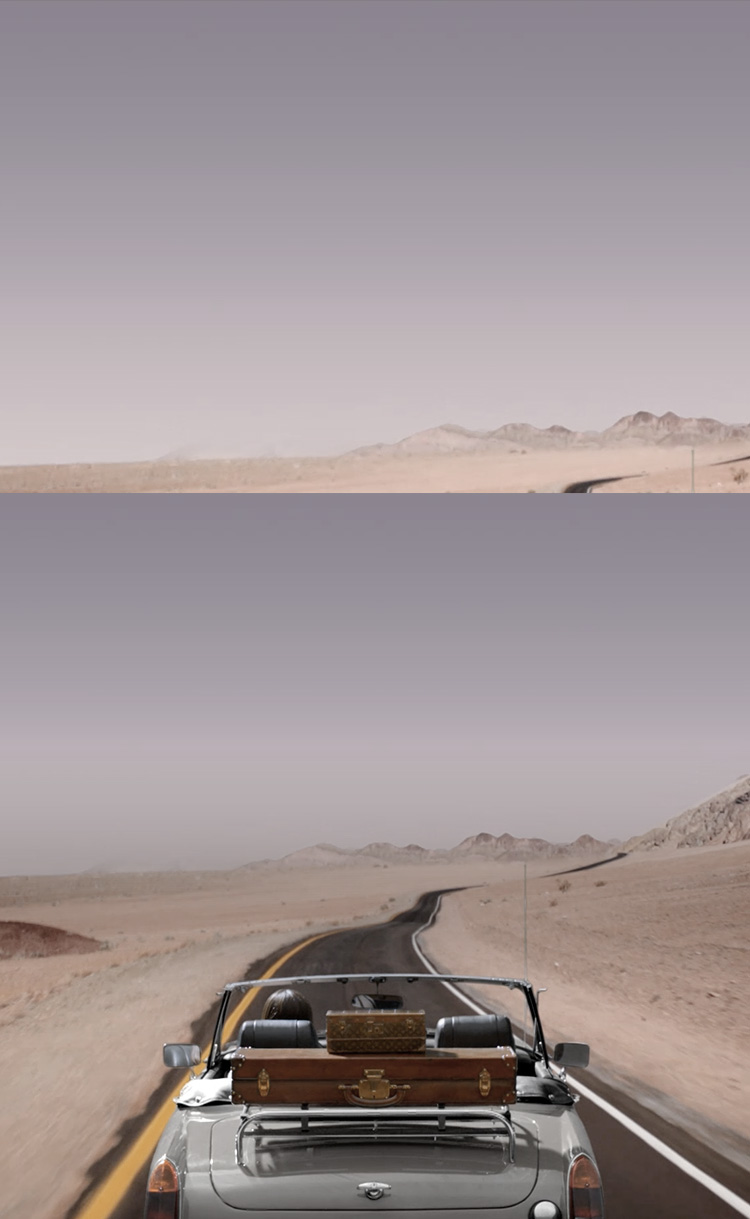
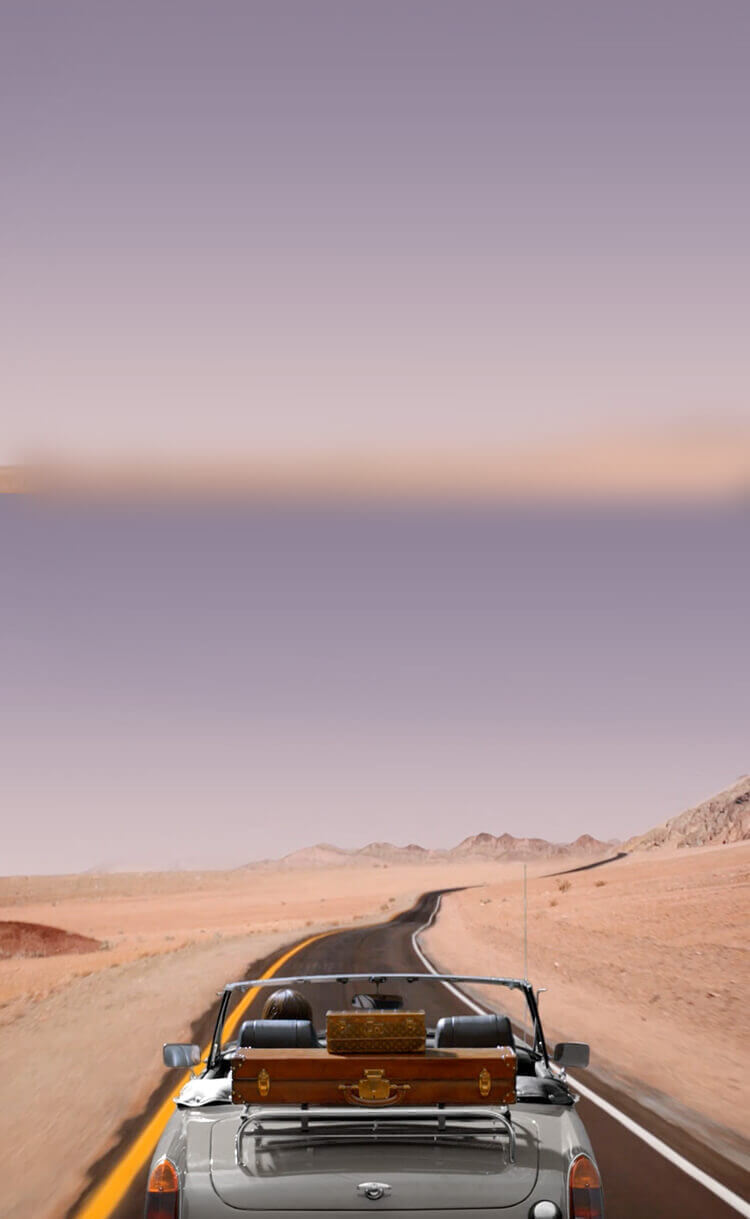
no message

diff --git a/web/neverendingstory/css/style.css b/web/neverendingstory/css/style.css
@@ -20,7 +20,7 @@
   width: 62%;
   position: absolute;
   left: 50%;
-  top: 8%;
+  top: 10%;
   margin: 0 0 0 -31%; 
   z-index: 12;
   text-align: center;
@@ -96,7 +96,7 @@
 .video{
   width: 100%;
   display: inline-block;
-  margin: 40% 0 0 0;
+  margin: 43% 0 0 0;
   position: relative;
   z-index: 3;
 }
@@ -141,7 +141,7 @@
   width: 50%;
   position: absolute;
   left: 50%;
-  bottom: -36%;
+  bottom: -23%;
   margin: 0 0 0 -25%;
   z-index: 6;
 }
@@ -206,7 +206,7 @@
 
 /* qrcode */
 #qrcode{
-  background: url("../imgs/qrcode_bg.jpg") center top no-repeat;
+  background: url("../imgs/qrcode_bg.jpg") center bottom no-repeat;
   background-size: 100% auto;
 }
 
@@ -247,7 +247,7 @@
   }
 
   .video{
-    margin: 32% 0 0 0;
+    margin: 30% 0 0 0;
   }
 
   .slogan{
@@ -263,7 +263,7 @@
       width: 50%;
       position: absolute;
       left: 50%;
-      bottom: -30%;
+      bottom: -22%;
       margin: 0 0 0 -25%;
       z-index: 6;
     }
@@ -277,7 +277,7 @@
 
 
   .qrcode_con{
-    margin: 38% 0 0 0;
+    margin: 50% 0 0 0;
   }
 
 
@@ -297,7 +297,7 @@
 .fpage{
   width: 76%;
   display: none;
-  margin: 16% 0 0 0;
+  margin: 33% 0 0 0;
 }
 
 .fpage#form{
@@ -308,7 +308,7 @@
   font-size: 24px;
   width: 100%;
   text-align: center;
-  padding: 0 0 15% 0;
+  /*padding: 0 0 15% 0;*/
 }
 
 #form h1 span{
@@ -326,16 +326,16 @@
 #form ul{
   width: 100%;
   display: inline-block;
-  margin: 15% 0;
+  margin: 9% 0 9% 0;
 }
 
 #form li{
   width: 100%;
-  padding: 6px 0;
+  padding: 4px 0;
   background: #e5e0da;
   font-size: 14px;
   color: #a5a5a5;
-  margin: 9px 0;
+  margin: 4px 0;
   display: inline-block;
 }
 
@@ -393,17 +393,17 @@
   top: 50%;
   width: 100%;
   text-align: center;
-  margin: -10% 0 0 0;
-  font-size: 16px;
+  margin: -9% 0 0 0;
+  font-size: 14px;
   color: #fff;
 }
 
 .rule_link{
-  font-size: 18px;
+  font-size: 16px;
   color: #533f35;
   width: 100%;
   display: inline-block;
-  margin: 6% 0 20% 0;
+  margin: 6% 0 9% 0;
 }
 
 .rule_link i{
@@ -441,13 +441,13 @@
   top: 50%;
   width: 100%;
   text-align: center;
-  margin: -10% 0 0 0;
-  font-size: 16px;
+  margin: -9% 0 0 0;
+  font-size: 14px;
   color: #fff;
 }
 
 #rule .pf_footer{
-  margin: 20% 0 22% 0;
+  margin: 23.5% 0 10% 0;
 }
 
 
@@ -457,13 +457,13 @@
   position: fixed;
   left: 0;
   top: 0;
-  z-index: 9;
-  background: rgba(0,0,0,0.95);
+  z-index: 16;
+  background: rgba(235,235,235,1);
   display: none;
 }
 
 
-.successPup_con{
+/*.successPup_con{
   width:60%;
   height: 100px;
   line-height: 100px;
@@ -482,6 +482,28 @@
   margin: 0 0 0 42%;
   float: left;
 }
+*/
+
+.successPup_con{
+  width:60%;
+  height: 100px;
+  line-height: 100px;
+  position: absolute;
+  left: 50%;
+  top: 50%;
+  margin: -50px 0 0 -30%;
+  /*background: #e5e0da url("../imgs/r_icon.png") no-repeat 27% center;*/
+  background: #533f35;
+  color: #fff;
+  background-size: 10% auto;
+  font-size: 18px;
+  text-align: center;
+}
+
+.successPup_con span{
+  display: inline-block;
+  /*margin: 0 0 0 14%;*/
+}
 
 
 
@@ -490,6 +512,46 @@
 
 
 
+
+
+/* 6plus */
+
+@media only screen and (min-device-width: 414px) and (max-device-width: 736px) and (orientation: portrait) {
+  #form ul{
+    width: 100%;
+    display: inline-block;
+    margin: 9% 0 9% 0;
+  }
+
+  #form li{
+    width: 100%;
+    padding: 6px 0;
+    background: #e5e0da;
+    font-size: 14px;
+    color: #a5a5a5;
+    margin: 9px 0;
+    display: inline-block;
+  }
+}
+
+/* 6 */
+@media only screen and (min-device-width: 375px) and (max-device-width: 410px) and (orientation: portrait) {
+  #form ul{
+    width: 100%;
+    display: inline-block;
+    margin: 9% 0 9% 0;
+  }
+
+  #form li{
+    width: 100%;
+    padding: 6px 0;
+    background: #e5e0da;
+    font-size: 14px;
+    color: #a5a5a5;
+    margin: 9px 0;
+    display: inline-block;
+  }
+}
 
 
 

diff --git a/web/neverendingstory/form.html b/web/neverendingstory/form.html
@@ -28,14 +28,19 @@
 
 <div class="wrapFrom">
 
+<a href="javascript:;" class="logo" >
+	<img src="imgs/logo_black.png" width="100%" />
+</a>
+
 <section class="fpage" id="form">
+	
+
 	<h1>
-		填写您的信息
-		<span>方便我们与您联系</span>
+		<img src="imgs/form_tips.png" width="49%" />
 	</h1>
-	<h2>
+	<!-- <h2>
 		跟随路易威登踏上永无止境的旅程
-	</h2>
+	</h2> -->
 
 	<ul>
 		<li>
@@ -108,16 +113,16 @@
 		var _city = $("input[name='city']").val();
 
 		if(_name == "" || !_name){
-			alert("姓名不能为空！");
+			alert("请填写姓名");
 			return false;
 		}else if(!isPhoneNum(_tel)){
-			alert("手机号码错误!");
+			alert("请填写正确的手机号码");
 			return false;
 		}else if(_sex == "请选择"){
-			alert("请选择您的性别!");
+			alert("请选择性别");
 			return false;
 		}else if(_city == ""){
-			alert("城市不能为空!");
+			alert("请填写城市");
 			return false;
 		}else{
 			$(".successPup").show();

diff --git a/web/neverendingstory/index.html b/web/neverendingstory/index.html
@@ -73,9 +73,9 @@
 					<img src="imgs/change_tips.png" width="100%" />
 				</div>
 
-				<div class="wifitips">
+				<!-- <div class="wifitips">
 					<img src="../imgs/wifi_tips.png" width="100%" />
-				</div>
+				</div> -->
 			</div>
 
 			<div class="swipeArea"></div>

diff --git a/web/neverendingstory/js/main.js b/web/neverendingstory/js/main.js
@@ -56,6 +56,9 @@ document.addEventListener('touchmove' , function (ev){
 				onallended: function(){
 					$(".poster").show();
 					videoFun(0);
+
+					pageAnimate_out("video");
+					pageAnimate_in("qrcode");
 				},
 				onpause: function(){
 					$(".poster").show();
